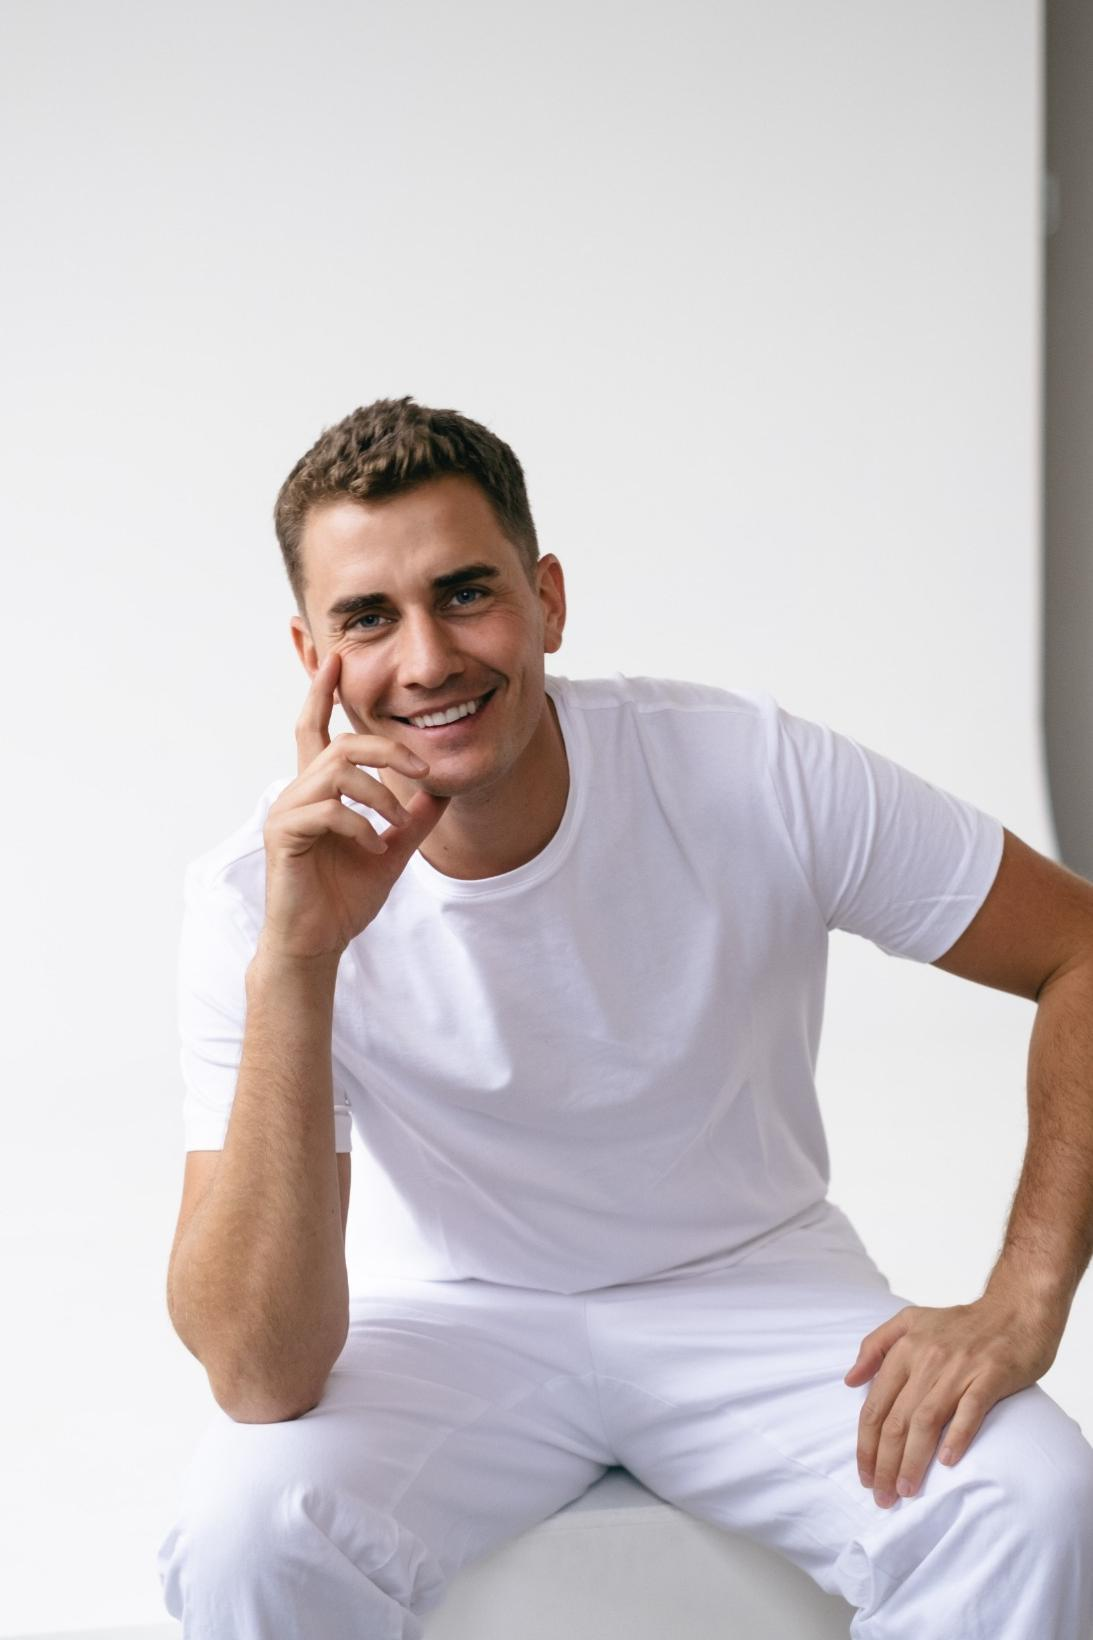
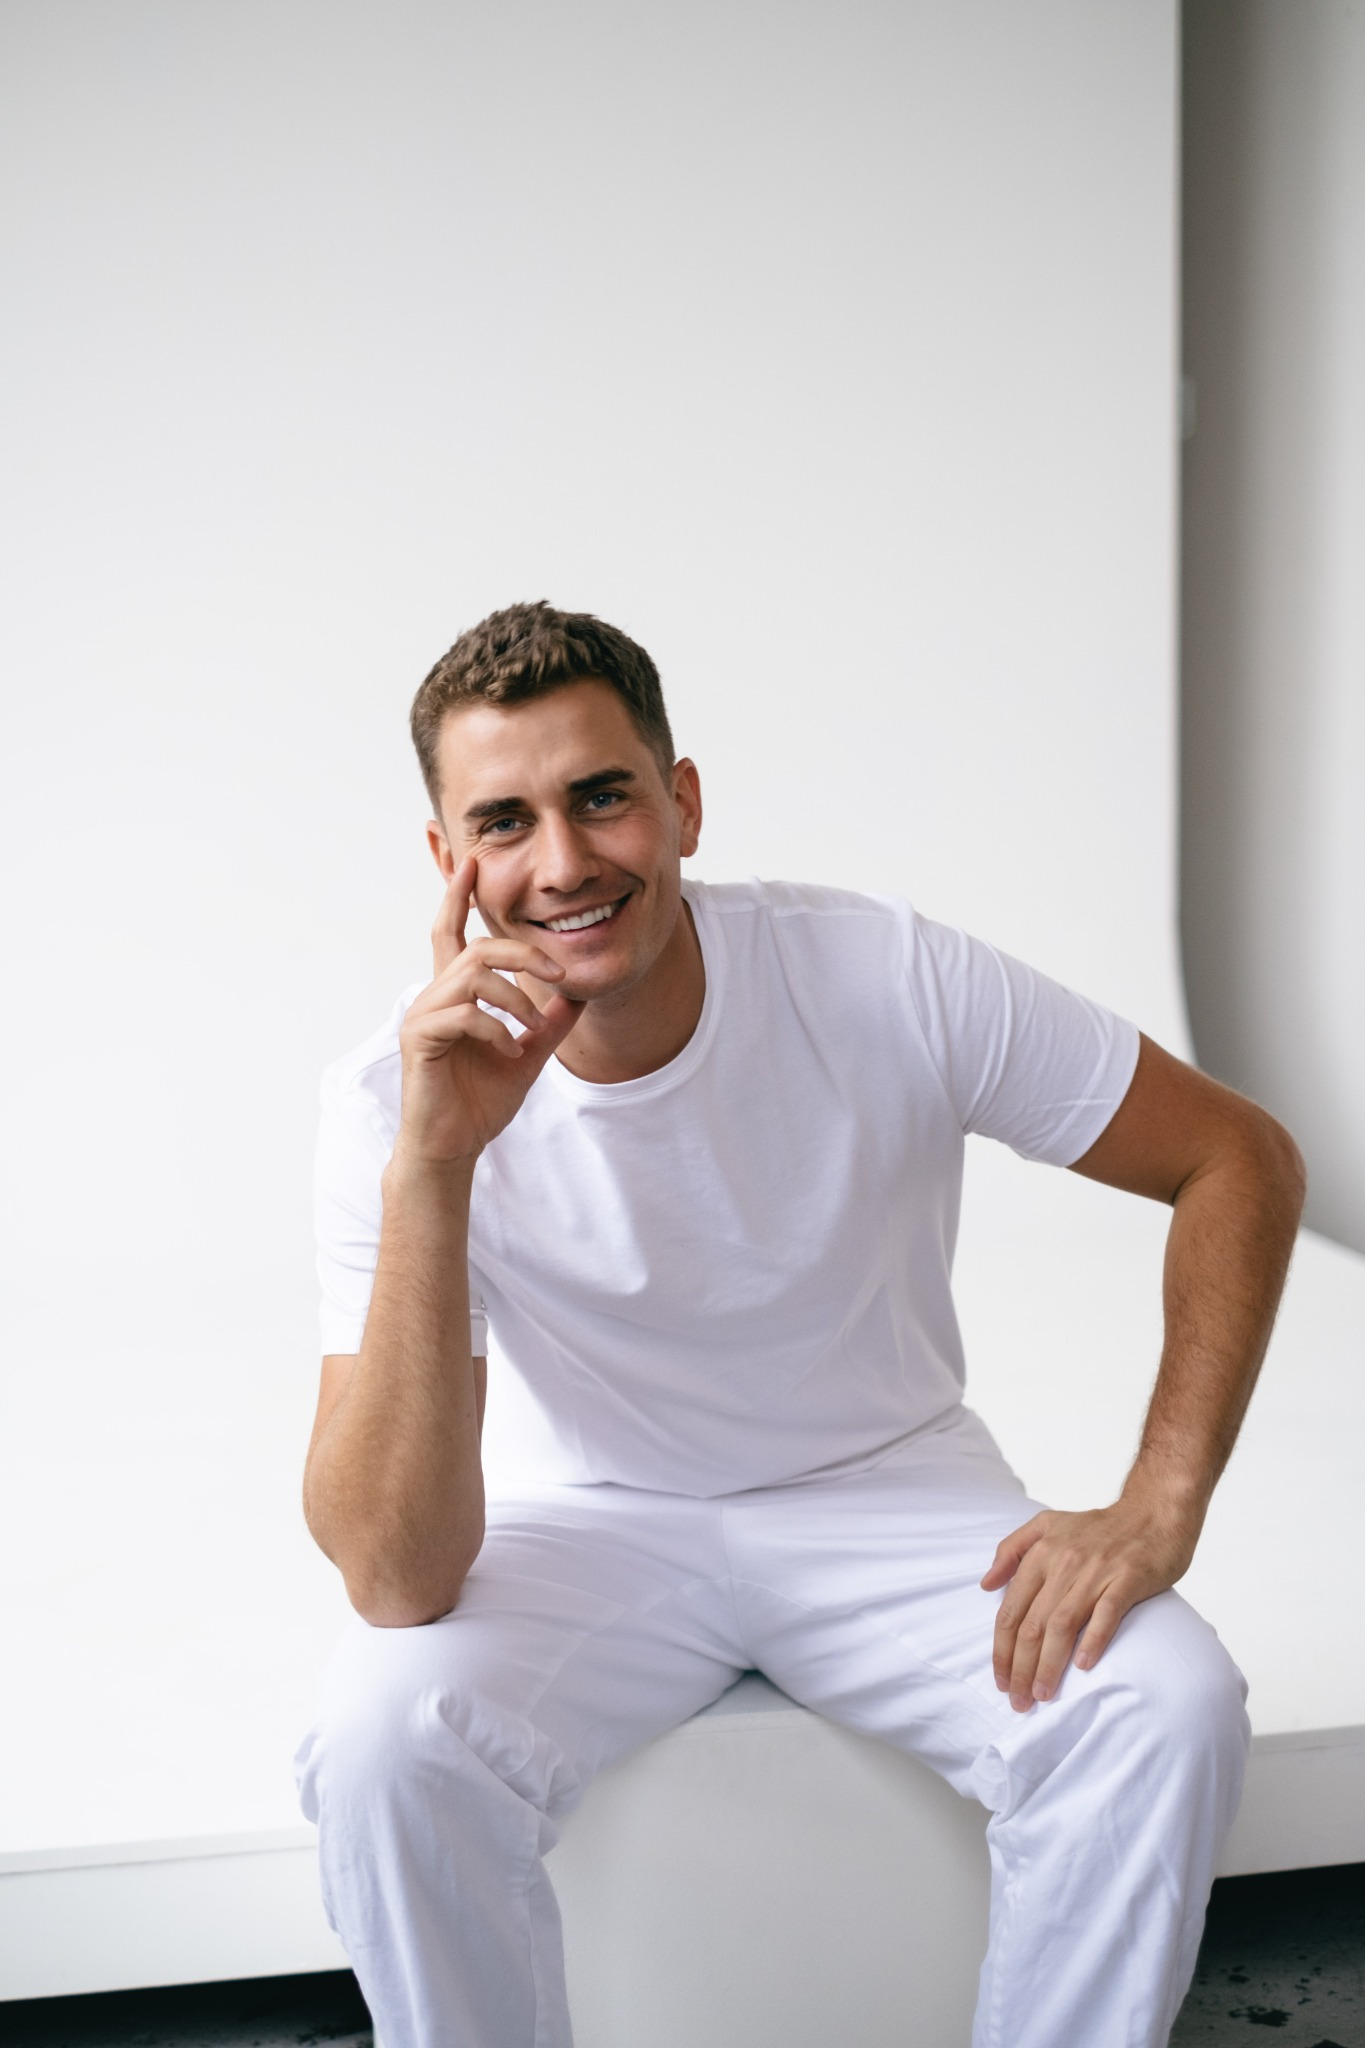
Add files via upload

diff --git a/index.html b/index.html
@@ -1,220 +1,57 @@
 
 <!DOCTYPE html>
-
 <html lang="cs">
 <head>
-<meta charset="utf-8"/>
-<meta content="width=device-width, initial-scale=1.0" name="viewport"/>
-<title>C:Dent – Stomatologická klinika</title>
-<link href="https://fonts.googleapis.com/css2?family=Poppins:wght@300;500;600&amp;display=swap" rel="stylesheet"/>
-<style>
-    :root {
-      --primary: #008cdd;
-      --text: #012b39;
-    }
-    * {
-      box-sizing: border-box;
-      margin: 0;
-      padding: 0;
-    }
-    body {
-      font-family: 'Poppins', sans-serif;
-      color: var(--text);
-      background: #f9f9f9;
-    }
-    header {
-      position: fixed;
-      top: 0;
-      width: 100%;
-      background: rgba(255,255,255,0.95);
-      box-shadow: 0 2px 5px rgba(0,0,0,0.05);
-      display: flex;
-      justify-content: space-between;
-      align-items: center;
-      padding: 1rem 2rem;
-      z-index: 999;
-    }
-    .logo {
-      font-weight: 600;
-      font-size: 1.3rem;
-      color: var(--primary);
-    }
-    nav a {
-      margin-left: 1.5rem;
-      text-decoration: none;
-      color: var(--text);
-      font-weight: 500;
-      cursor: pointer;
-    }
-    .hero {
-      background: url('https://images.unsplash.com/photo-1629909613655-658b4df7c71b?auto=format&fit=crop&w=1450&q=80') center/cover no-repeat;
-      height: 90vh;
-      display: flex;
-      align-items: center;
-      justify-content: center;
-      text-align: center;
-      padding: 2rem;
-      position: relative;
-    }
-    .hero::before {
-      content: "";
-      position: absolute;
-      top:0; left:0; right:0; bottom:0;
-      background: rgba(0, 140, 221, 0.45);
-      z-index: 1;
-    }
-    .hero-content {
-      position: relative;
-      z-index: 2;
-      color: white;
-    }
-    .hero h1 {
-      font-size: 2.5rem;
-      margin-bottom: 1rem;
-    }
-    .hero p {
-      font-size: 1.2rem;
-      margin-bottom: 2rem;
-    }
-    .hero a {
-      background: white;
-      color: var(--primary);
-      padding: 0.7rem 1.4rem;
-      border-radius: 4px;
-      text-decoration: none;
-      font-weight: bold;
-    }
-    main {
-      max-width: 1000px;
-      margin: auto;
-      padding: 2rem 1.5rem;
-    }
-    section {
-      margin-top: 3rem;
-    }
-    h2 {
-      text-align: center;
-      margin-bottom: 1.5rem;
-    }
-    .services-grid {
-      display: grid;
-      grid-template-columns: repeat(auto-fit, minmax(220px, 1fr));
-      gap: 1.5rem;
-    }
-    .service {
-      background: white;
-      padding: 1.2rem;
-      border-radius: 8px;
-      box-shadow: 0 2px 5px rgba(0,0,0,0.05);
-      text-align: center;
-      transition: transform 0.2s ease;
-    }
-    .service:hover {
-      transform: translateY(-5px);
-    }
-    .service i {
-      font-size: 2rem;
-      color: var(--primary);
-      margin-bottom: 0.5rem;
-    }
-    .slider-container {
-      position: relative;
-      max-width: 700px;
-      margin: 2rem auto;
-      aspect-ratio: 16/9;
-      overflow: hidden;
-      border-radius: 8px;
-    }
-    .slider-container img {
-      position: absolute;
-      width: 100%;
-      height: 100%;
-      object-fit: cover;
-    }
-    .after {
-      clip-path: inset(0 50% 0 0);
-      z-index: 2;
-      transition: clip-path .2s ease;
-    }
-    .slider-range {
-      width: 100%;
-      margin-top: 1rem;
-    }
-    form input, form textarea, form button {
-      display:block;
-      width:100%;
-      padding:.6rem;
-      margin-bottom:1rem;
-      border:1px solid #ccc;
-      border-radius:4px;
-      font-family:inherit;
-    }
-    form button {
-      background:var(--primary);
-      color:#fff;
-      border:none;
-      font-weight:600;
-      cursor:pointer;
-    }
-  </style>
+    <meta charset="UTF-8" />
+    <meta name="viewport" content="width=device-width, initial-scale=1.0"/>
+    <title>C:Dent</title>
+    <link rel="stylesheet" href="style.css" />
 </head>
 <body>
-<header>
-<div class="logo">C:Dent</div>
-<nav>
-<a href="#services">Služby</a>
-<a href="#work">Ukázky</a>
-<a href="#contact">Kontakt</a>
-<a href="#team">Náš tým</a></nav>
-</header>
-<section class="hero">
-<div class="hero-content">
-<h1>Rodinná stomatologická péče na Vinohradech</h1>
-<p>Komplexní zubní služby – prevence, estetika i moderní mikroskopie</p>
-<a href="#contact">Objednat konzultaci</a>
-</div>
-</section>
-<main>
-<section id="services">
-<h2>Naše služby</h2>
-<div class="services-grid">
-<div class="service"><i>🦷</i><p>Preventivní prohlídky</p></div>
-<div class="service"><i>🪥</i><p>Dentální hygiena</p></div>
-<div class="service"><i>💎</i><p>Bělení zubů</p></div>
-<div class="service"><i>🛠</i><p>Zubní protetika</p></div>
-<div class="service"><i>👶</i><p>Dětská stomatologie</p></div>
-<div class="service"><i>🔬</i><p>Mikroskopická endodoncie</p></div>
-</div>
-</section>
-<section id="work">
-<h2>Ukázky naší práce</h2>
-<div class="slider-container">
-<img alt="Před" class="before" src="assets/before.jpg"/>
-<img class="after" id="after" src="assets/after.jpg"/>
-</div>
-<input class="slider-range" max="100" min="0" type="range" value="50"/>
-</section>
-<section id="contact">
-<h2>Kontaktujte nás</h2>
-<p><strong>Adresa:</strong> Vinohradská 196, Praha 3, 130 00</p>
-<p><strong>Telefon:</strong> <a href="tel:+420272735268">272 735 268</a></p>
-<p><strong>Email:</strong> <a href="mailto:dmd@zubnidmd.cz">dmd@zubnidmd.cz</a></p>
-<form>
-<input placeholder="Vaše jméno" type="text"/>
-<input placeholder="Váš e-mail" type="email"/>
-<textarea placeholder="Zpráva..." rows="4"></textarea>
-<button type="submit">Odeslat</button>
-</form>
-</section>
-</main>
-<script>
-const slider = document.querySelector('.slider-range');
-const afterImg = document.getElementById('after');
-if (slider && afterImg) {
-  slider.addEventListener('input', e => {
-    afterImg.style.clipPath = `inset(0 ${100 - e.target.value}% 0 0)`;
-  });
-}
-</script>
-<section id="team" style="padding: 60px 20px; background-color: #f8f8f8; text-align: center;"><h2>Náš tým</h2><img alt="MDDr. Jonáš Celerýn" src="assets/jonas.jpg" style="width: 220px; border-radius: 10px; margin: 20px 0;"/><p>MDDr. Jonáš Celerýn se věnuje komplexní stomatologii, pracuje s mikroskopem a zaměřuje se na rekonstrukce chrupu, estetiku, protetiku, implantologii a chirurgii měkkých tkání. Působil jako pedagog na 1. LF UK a absolvoval curriculum ČADE.</p></section></body>
+    <header>
+        <nav>
+            <ul>
+                <li><a href="#home">Úvod</a></li>
+                <li><a href="#services">Služby</a></li>
+                <li><a href="#team">Náš tým</a></li>
+                <li><a href="#contact">Kontakt</a></li>
+            </ul>
+        </nav>
+    </header>
+
+    <section id="home" class="hero-section">
+        <div class="hero-content">
+            <h1>Vítejte na C:Dent</h1>
+            <p>Rodinná stomatologická péče se zaměřením na prevenci a špičkovou estetiku v srdci Vinohrad.</p>
+        </div>
+    </section>
+
+    <section id="services">
+        <h2>Naše služby</h2>
+        <ul>
+            <li>Komplexní stomatologie</li>
+            <li>Dentální hygiena</li>
+            <li>Implantologie</li>
+            <li>Protetika</li>
+            <li>Estetická stomatologie</li>
+            <li>Chirurgie měkkých tkání</li>
+        </ul>
+    </section>
+
+    <section id="team">
+        <h2>Náš tým</h2>
+        <div class="team-member">
+            <img src="assets/jonas.jpg" alt="MDDr. Jonáš Celerýn" />
+            <h3>MDDr. Jonáš Celerýn</h3>
+            <p>Specialista na komplexní rekonstrukce chrupu, mikroskopickou stomatologii, estetiku, implantologii a chirurgii měkkých tkání. Působil jako pedagog na 1. LF UK a je absolventem curriculum ČADE.</p>
+        </div>
+    </section>
+
+    <section id="contact">
+        <h2>Kontakt</h2>
+        <p>Vinohradská 196, Praha 3, 130 00</p>
+        <p>Telefon: 272 735 268</p>
+        <p>Email: dmd@zubnidmd.cz</p>
+    </section>
+</body>
 </html>

diff --git a/style.css b/style.css
@@ -1,0 +1,48 @@
+
+body {
+    margin: 0;
+    font-family: Arial, sans-serif;
+}
+
+header {
+    background: #005a87;
+    padding: 10px 20px;
+    color: white;
+}
+
+nav ul {
+    list-style: none;
+    padding: 0;
+    display: flex;
+    gap: 20px;
+}
+
+nav a {
+    color: white;
+    text-decoration: none;
+}
+
+.hero-section {
+    background-image: url('assets/family-bg.jpg');
+    background-size: cover;
+    background-position: center;
+    color: white;
+    padding: 100px 20px;
+    text-shadow: 1px 1px 5px black;
+}
+
+.hero-content {
+    max-width: 600px;
+    background: rgba(0, 0, 0, 0.4);
+    padding: 20px;
+    border-radius: 8px;
+}
+
+section {
+    padding: 40px 20px;
+}
+
+#team img {
+    max-width: 200px;
+    border-radius: 8px;
+}
